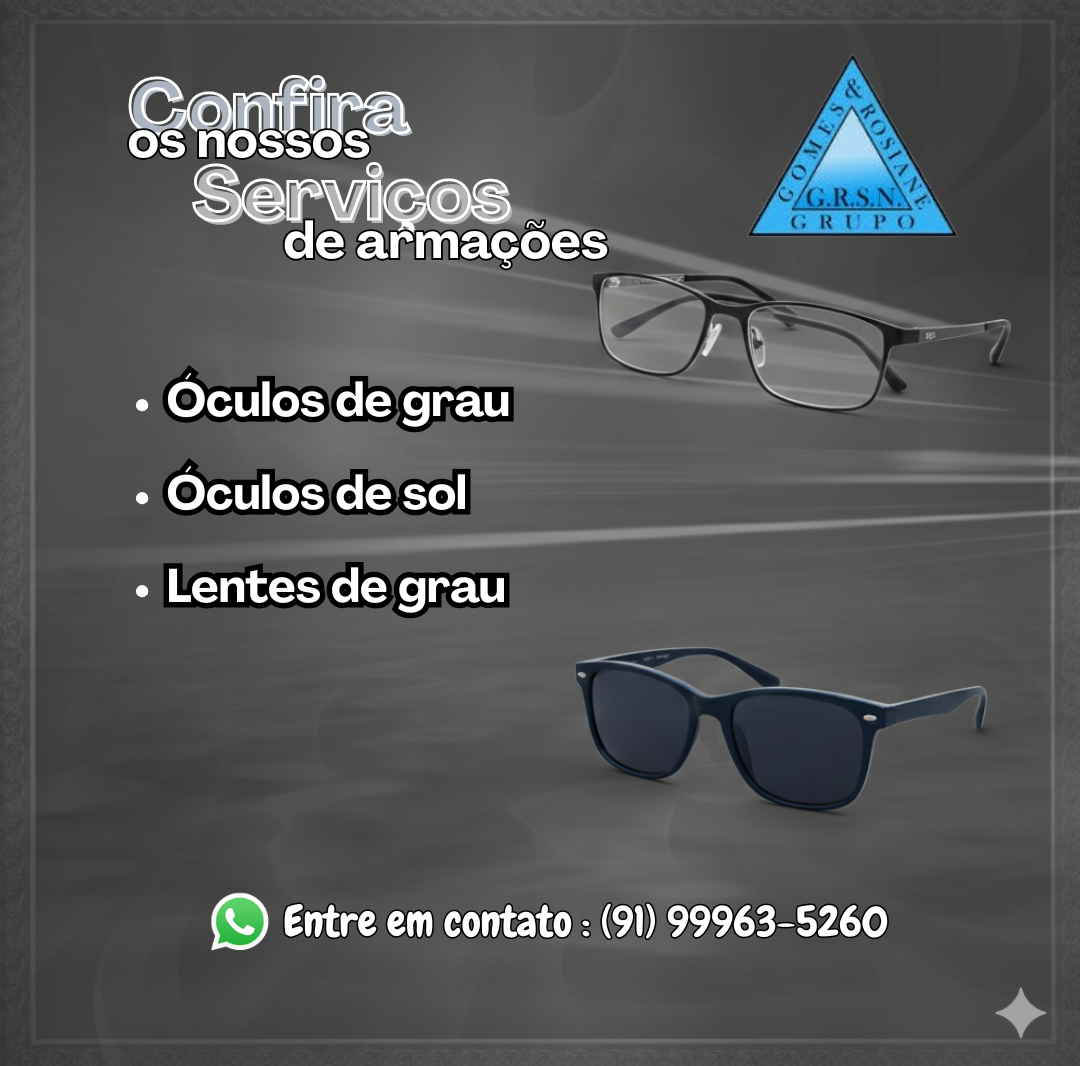
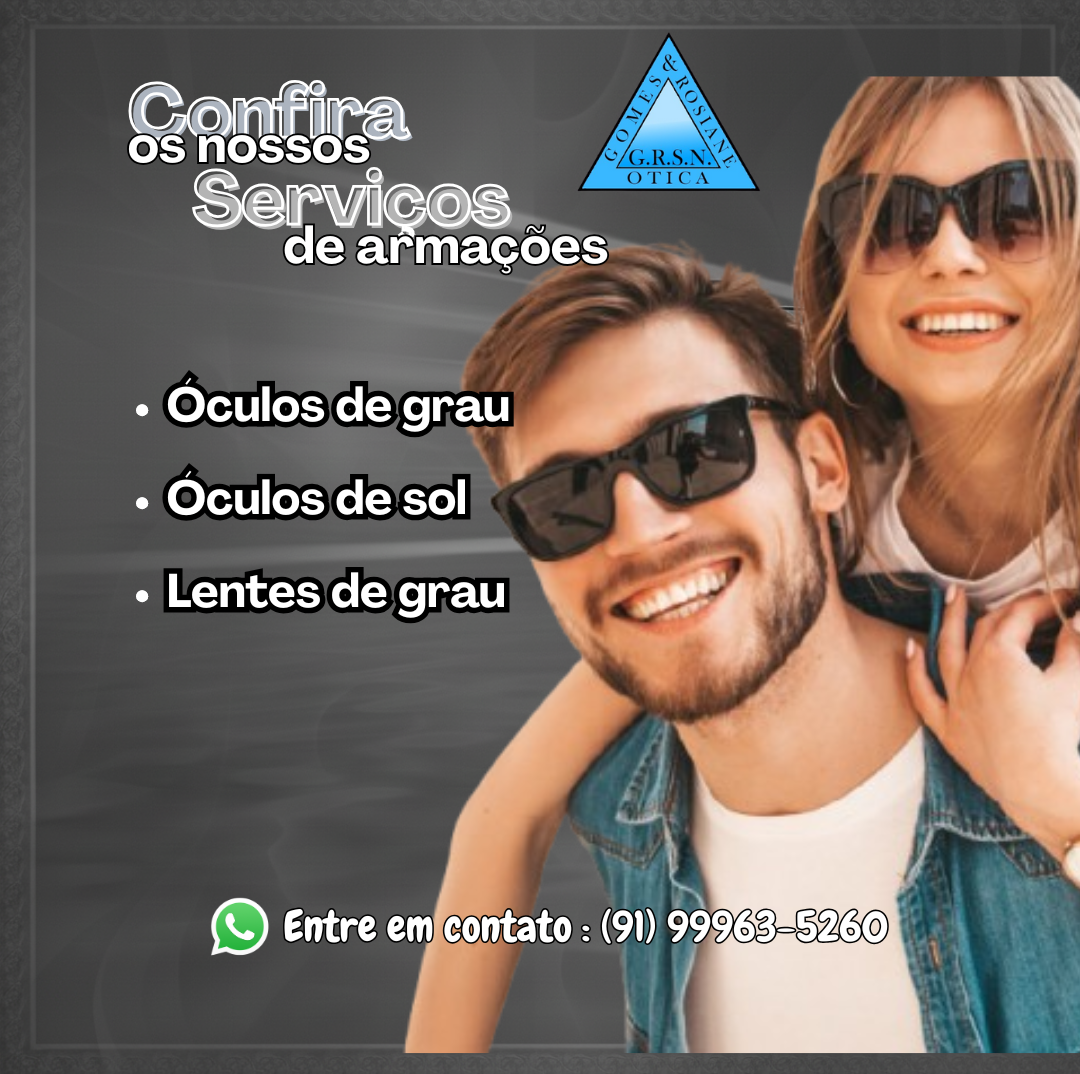
novas imagens no slider serviços

diff --git a/js/slider-servicos.js b/js/slider-servicos.js
@@ -2,17 +2,28 @@
 const cardImages = [
   ["images-slider/slider-consultas-medicas1.png", "images-slider/slider-consultas-medicas2.png",
     "images-slider/slider-consultas-medicas3.png", "images-slider/slider-consultas-medicas4.png",
-    "images-slider/slider-consultas-medicas5.png"], // Card 0
-  ["images-slider/slider-planosfunerarios.png"], // Card 1
-  ["images-slider/slider-seguro-automotivo.png", "images-slider/slider-seguro-de-vida.png",
-    "images-slider/slider-seguro-residencial.png"], // Card 2
-  ["images-slider/slider-certificados.png"], // Card 3
-  ["images-slider/slider-servicosdemobildade.png"], // Card 4
-  ["images-slider/slider-imoveis.png"], // Card 5
-  ["images-slider/slider-planodesaude.png", "images-slider/slider-planoodonto.png"], // Card 6
-  ["images-slider/slider-otica.png"], // Card 7
-  ["images-slider/slider-contabilidade.png"], // Card 8
-  ["images-slider/slider-documentos.png"] // Card 9
+    "images-slider/slider-consultas-medicas5.png"], // Card 0 (Consultas médicas)
+
+  ["images-slider/slider-funeraria1.png", "images-slider/slider-funeraria2.png", 
+    "images-slider/slider-funeraria3.png", "images-slider/slider-funeraria4.png"], // Card 1 (Funerária)
+
+  ["images-slider/slider-seguros1.png", "images-slider/slider-seguros2.png",
+    "images-slider/slider-seguros3.png", "images-slider/slider-seguros4.png",
+    "images-slider/slider-seguros5.png"], // Card 2 (Seguros)
+
+  ["images-slider/slider-certificados.png"], // Card 3 (Certificados)
+
+  ["images-slider/slider-servicosdemobildade.png"], // Card 4 (Serviços de mobilidade)
+
+  ["images-slider/slider-imoveis.png"], // Card 5 (Imóveis)
+
+  ["images-slider/slider-planodesaude.png", "images-slider/slider-planoodonto.png"], // Card 6 (Planos de saude e odonto)
+
+  ["images-slider/slider-otica.png"], // Card 7 (Ótica)
+
+  ["images-slider/slider-contabilidade.png"], // Card 8 (Contabilidade)
+
+  ["images-slider/slider-documentos.png"] // Card 9 (Documentação)
 ];
 
 const modal = document.getElementById('sliderModal');

diff --git a/css/servicos.css b/css/servicos.css
@@ -133,7 +133,7 @@
   justify-content: center;
   position: absolute;
   top: 80px;
-  right: 240px;
+  right: 220px;
 
   background: rgba(255, 0, 0, 0.808);
   color: white;
@@ -174,5 +174,5 @@
   background-color: #4f9bff;
 }
 
-.left-arrow { left: 250px; }
-.right-arrow { right: 250px; }
+.left-arrow { left: 220px; }
+.right-arrow { right: 220px; }

diff --git a/css/responsivo.css b/css/responsivo.css
@@ -174,7 +174,7 @@
   }
 
   .close-btn {
-    top: 80px;
+    top: 100px;
     right: 20px;
     width: 40px;
     height: 40px;
